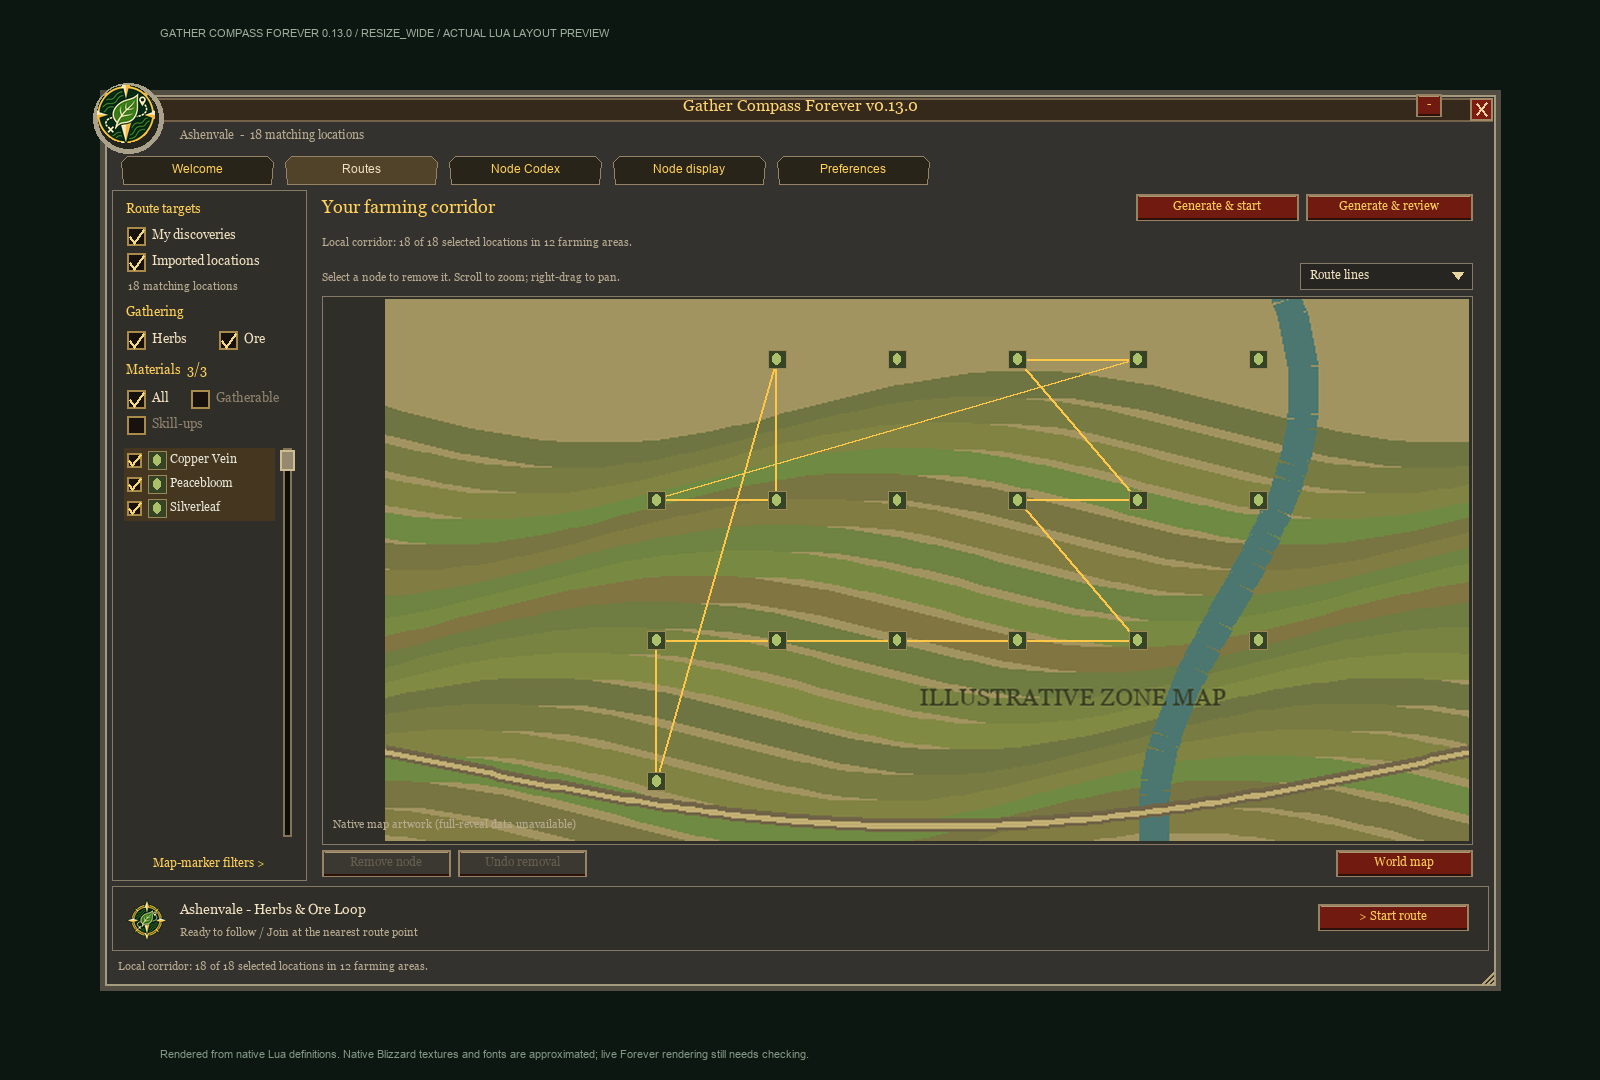
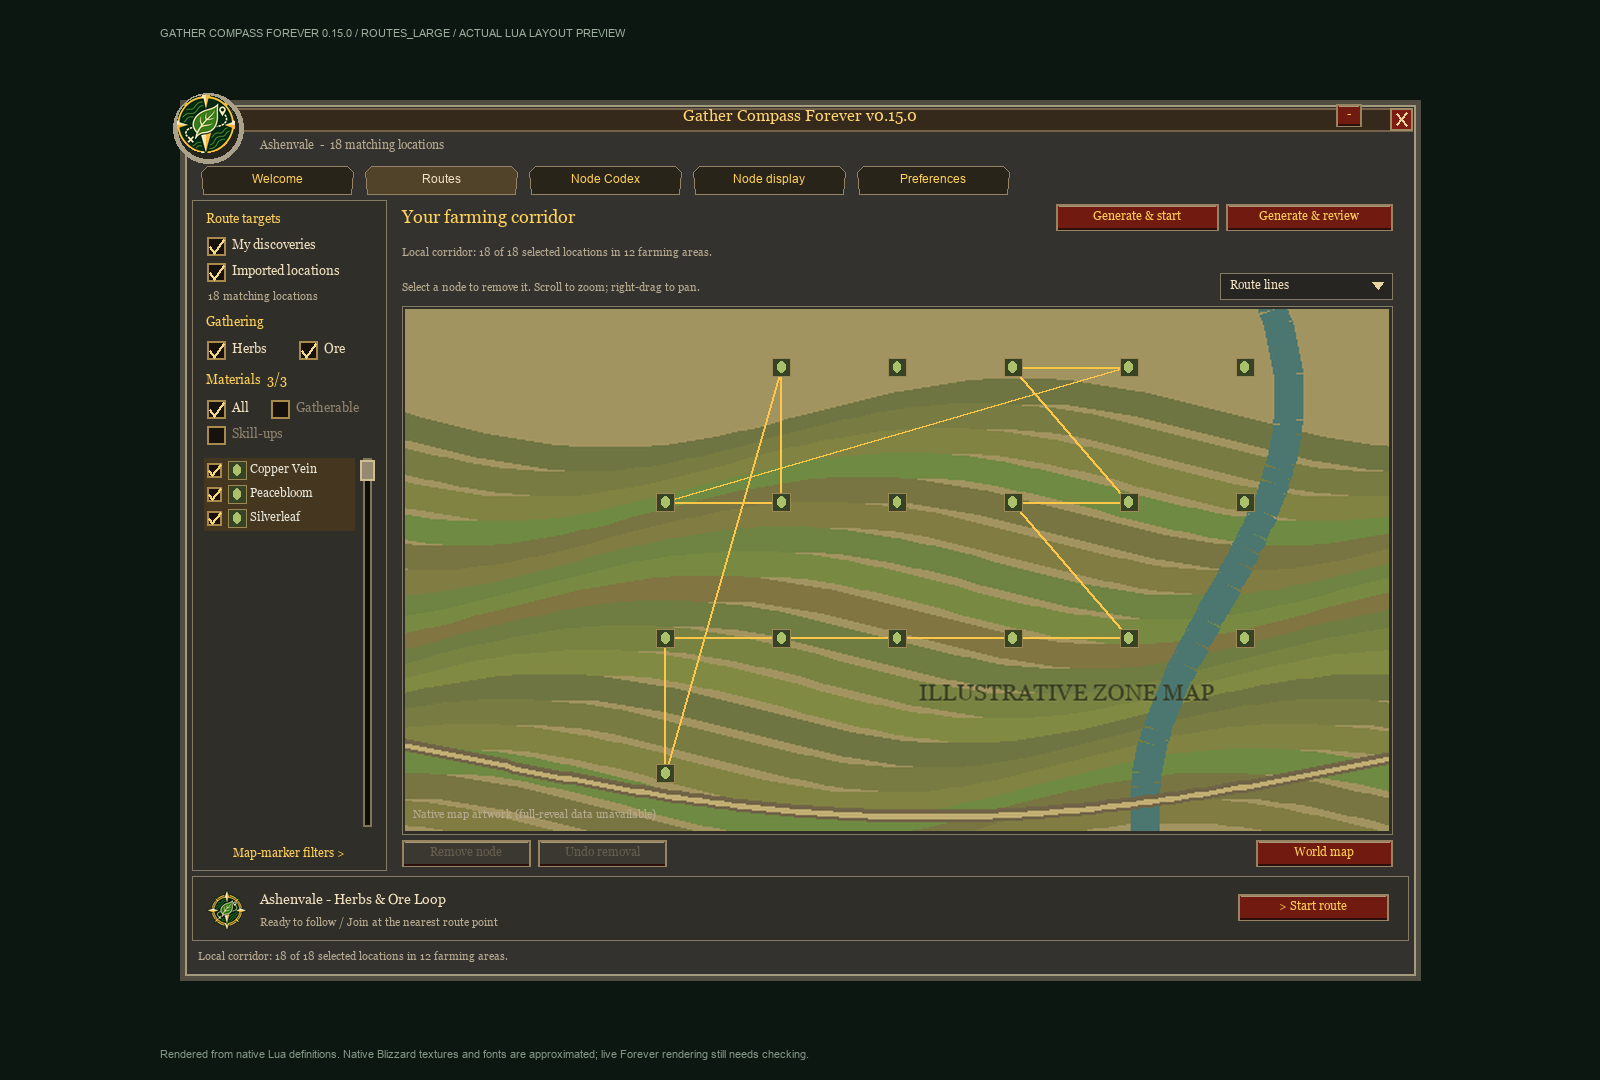
Prepare v0.15.0 fixed panel layouts release

Changed region(s): [[0.0312, 0.0611, 0.9375, 0.9167]]

diff --git a/tools/render_ui_preview.py b/tools/render_ui_preview.py
@@ -35,7 +35,7 @@ CreateFrame=function(...)
  return f
 end
 WorldMapFrame:Hide()
-A={version='0.14.0'};for _,m in ipairs({'Store','Client','Resources','MarkerGroups','SkillTooltip','Selection','Atlas','ResourceLibrary','DifficultyProbe','Editor','Recorder','Corridor','Planner','FarmingSession','Follower','Heatmap','MiniHeat','MinimapPins','Map','Skin','PanelWindow','ScrollPanel','VirtualList','Dropdown','Data/MapReveal','MapOverlays','MapArt','GroupPicker','RouteSketch','RouteView','ResourceLibraryView','UIActions','FilterSidebar','WelcomeView','MarkerFiltersView','NodeDisplayView','PreferencesView','UI','Arrow','MinimapButton'}) do assert(loadfile(m..'.lua'))('GatherCompassForever',A) end
+A={version='0.15.0'};for _,m in ipairs({'Store','Client','Resources','MarkerGroups','SkillTooltip','Selection','Atlas','ResourceLibrary','DifficultyProbe','Editor','Recorder','Corridor','Planner','FarmingSession','Follower','Heatmap','MiniHeat','MinimapPins','Map','Skin','PanelWindow','ScrollPanel','VirtualList','Dropdown','Data/MapReveal','MapOverlays','MapArt','GroupPicker','RouteSketch','RouteView','ResourceLibraryView','UIActions','FilterSidebar','WelcomeView','MarkerFiltersView','NodeDisplayView','PreferencesView','UI','Arrow','MinimapButton'}) do assert(loadfile(m..'.lua'))('GatherCompassForever',A) end
 A.db=A.Store.Open();A.Client.Position=function() return {mapID=1,x=.2,y=.4} end
 A.Client.Size=function() return 1000,600 end
 A.Client.Distance=function(a,b) if not a or not b or a.mapID~=b.mapID then return end;return math.sqrt(((a.x-b.x)*1000)^2+((a.y-b.y)*600)^2) end
@@ -156,7 +156,7 @@ def render(scene):
         resolving.remove(k);boxes[k]=r;return r
     def visible(o):return o['shown'] is not False and (o['parent'] is None or ident(o['parent'])==0 or visible(o['parent']))
     im=Image.new('RGBA',(screen_w,screen_h),'#0c1711');d=ImageDraw.Draw(im)
-    d.text((160,27),'GATHER COMPASS FOREVER 0.14.0 / '+scene.upper()+' / ACTUAL LUA LAYOUT PREVIEW',font=ImageFont.truetype('C:/Windows/Fonts/arial.ttf',11),fill='#9cae9d')
+    d.text((160,27),'GATHER COMPASS FOREVER 0.15.0 / '+scene.upper()+' / ACTUAL LUA LAYOUT PREVIEW',font=ImageFont.truetype('C:/Windows/Fonts/arial.ttf',11),fill='#9cae9d')
     fonts={}; text_report=[]
     def font(o):
         size=int(o['fontSize'] or 12);family='georgia.ttf' if 'FRIZ' in (o['fontPath'] or '') else 'arial.ttf';key=(family,size)

diff --git a/tests/package.py b/tests/package.py
@@ -1,7 +1,7 @@
 from pathlib import Path
 import zipfile
 root = Path(__file__).resolve().parents[1]
-path = root / 'dist/GatherCompassForever-0.14.0.zip'
+path = root / 'dist/GatherCompassForever-0.15.0.zip'
 assert path.is_file(), 'Installable ZIP missing'
 with zipfile.ZipFile(path) as z:
     names = z.namelist()
@@ -11,7 +11,7 @@ with zipfile.ZipFile(path) as z:
     metadata = dict(line[3:].split(': ', 1) for line in toc.splitlines() if line.startswith('## '))
     assert metadata['Title'] == 'Gather Compass Forever'
     assert metadata['SavedVariables'] == 'GatherCompassForeverDB'
-    assert metadata['Version'] == '0.14.0'
+    assert metadata['Version'] == '0.15.0'
     assert metadata['X-License'] == 'MIT'
     assert metadata['IconTexture'] == r'Interface\AddOns\GatherCompassForever\Media\Icon'
     for texture in ['Icon', 'LogoSheet', 'EmptyEmblem', 'NodeRing', 'NodeSquare', 'GuideArrow', 'HeatBlob', 'MinimapMasks']:

diff --git a/tools/package.py b/tools/package.py
@@ -14,7 +14,7 @@ for name in files:
     assert (root / name).is_file(), f'Missing package file: {name}'
 dist = root / 'dist'
 dist.mkdir(exist_ok=True)
-path = dist / 'GatherCompassForever-0.14.0.zip'
+path = dist / 'GatherCompassForever-0.15.0.zip'
 with zipfile.ZipFile(path, 'w', zipfile.ZIP_DEFLATED) as z:
     for name in files:
         z.write(root / name, 'GatherCompassForever/' + name)

diff --git a/README.md b/README.md
@@ -14,7 +14,7 @@ where resources grow, build farming routes and follow a clear in-game guide arro
 ![Tests](https://github.com/Red463/GatherCompassForever/actions/workflows/ci.yml/badge.svg)
 ![MIT license](https://img.shields.io/badge/license-MIT-green.svg)
 
-**Current version:** 0.14.0 ? **Client interface:** 16001 ? **Command:** `/gcf`
+**Current version:** 0.15.0 ? **Client interface:** 16001 ? **Command:** `/gcf`
 
 ## What it does
 
@@ -37,14 +37,14 @@ where resources grow, build farming routes and follow a clear in-game guide arro
   resource breakdown. Minimap outlines retain their original spawn positions.
 - **Tune map markers.** Visible nodes chooses everyday markers; World map/Minimap pages control sizes, opacity,
   grouping and nearby-icon hiding without losing hollow outlines.
-- **Resize the panel.** Drag its bottom-right corner to expand the map and lists while
-  keeping text and controls at their normal size. Dimensions and position are saved.
+- **Choose a panel size.** Select Small, Standard or Large in Preferences. Each layout
+  gives the map and lists appropriate space while keeping normal text and controls unchanged.
 - **Review without losing history.** Removals affect the current plan only. Existing
   saved routes and node history are preserved. A minimap badge opens the panel.
 
 ## Install
 
-1. Download `GatherCompassForever-0.14.0.zip` from
+1. Download `GatherCompassForever-0.15.0.zip` from
    [Releases](https://github.com/Red463/GatherCompassForever/releases/latest).
    Choose the addon ZIP asset rather than GitHub's automatic **Source code** ZIP.
 2. Close WoW and extract the `GatherCompassForever` folder into your Forever
@@ -273,19 +273,29 @@ Use `/gcf` to reopen the panel when its minimap button is hidden.
 
 ### Panel size
 
-Drag the grip at the bottom-right corner to change width and height independently.
-Extra space enlarges the Routes map, shows more materials and increases the visible Codex
-area. Narrow layouts wrap controls or offer an interior scrollbar; normal text,
-buttons and icons keep their existing sizes. Preferences shows the current dimensions
-and **Reset panel size** (scroll down when needed).
+Use **Preferences > Panel & minimap > Panel size** to choose a fixed layout:
 
-The default is **960 x 624** and the minimum layout is **860 x 600 UI units**. These
-follow WoW's UI coordinate system rather than physical monitor pixels. A smaller
-usable screen uses automatic fitting, which can reduce text size. Your preferred
-size is retained when the screen changes and restored when space is available.
-Minimising preserves the expanded dimensions; guide-arrow size remains independent.
+| Size | Width x height (UI units) |
+| --- | --- |
+| Small | 960 x 680 |
+| Standard (default) | 1100 x 780 |
+| Large | 1240 x 880 |
 
-![Wider panel with a larger route map and unchanged text size](docs/images/panel-resize.png)
+The route map grows with the layout while keeping its artwork proportions and
+aligned nodes, lines and heat. Lists show more rows where space allows; smaller
+layouts use interior scrolling. Normal text, buttons and icons keep their sizes.
+The corner resize grip has been removed. **Reset panel size** chooses Standard.
+
+Saved custom dimensions migrate to the nearest preset, preserving position. If a
+choice does not fit the current screen, the addon temporarily uses the largest
+smaller preset that fits and explains this in Preferences. Only screens too small
+for Small scale down the whole panel. Your preferred choice returns when space is
+available. These sizes use WoW's UI coordinates, rather than physical monitor pixels.
+Minimising preserves the preset; guide-arrow size remains independent.
+
+![Large fixed panel with a proportional route map and unchanged text size](docs/images/panel-resize.png)
+
+![Fixed size selection in Preferences](docs/images/panel-preferences.png)
 
 ## How to read the data
 

diff --git a/CHANGELOG.md b/CHANGELOG.md
@@ -1,5 +1,13 @@
 # Changelog
 
+## 0.15.0
+
+- Replace free panel resizing with Small (960 x 680), Standard (1100 x 780) and Large (1240 x 880) layouts selected in Preferences. Remove the corner resize grip.
+- Keep normal text and control sizes unchanged, enlarge the route map and lists with each layout, and preserve map artwork proportions and marker alignment.
+- Migrate saved dimensions to the nearest preset without changing panel position, route progress or filters.
+- Fit oversized choices to a smaller preset temporarily; restore the chosen size when screen space returns. Scale the whole panel only when even Small cannot fit.
+- Update Preferences size/reset instructions and preserve minimising, map zoom/pan, Codex selection and active guidance across size changes.
+
 ## 0.14.0
 
 - Remember confirmed detour pickups for the current lap and skip their matching later gather stops in both Lines and Heatmap mode. Reset next lap or on a fresh route start.
